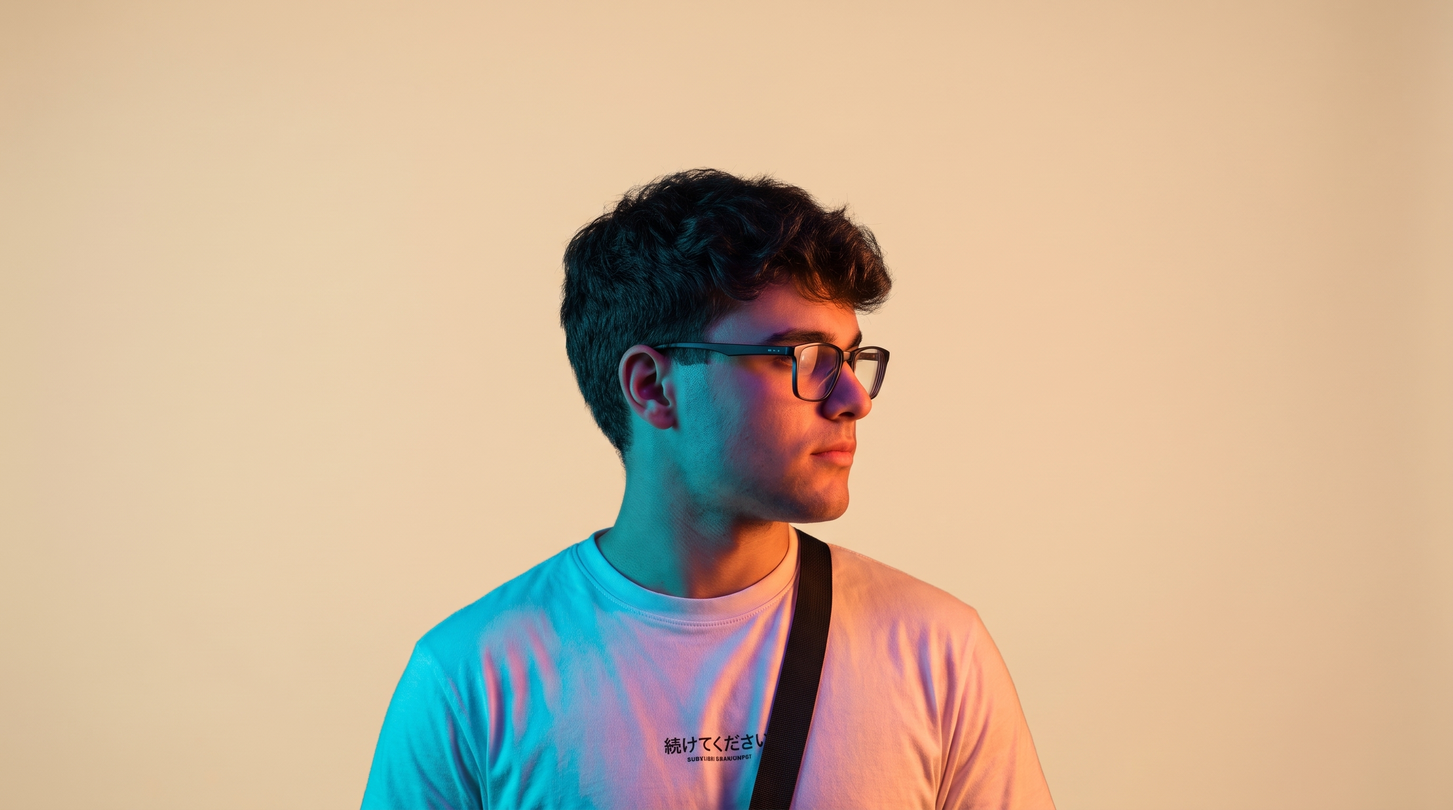
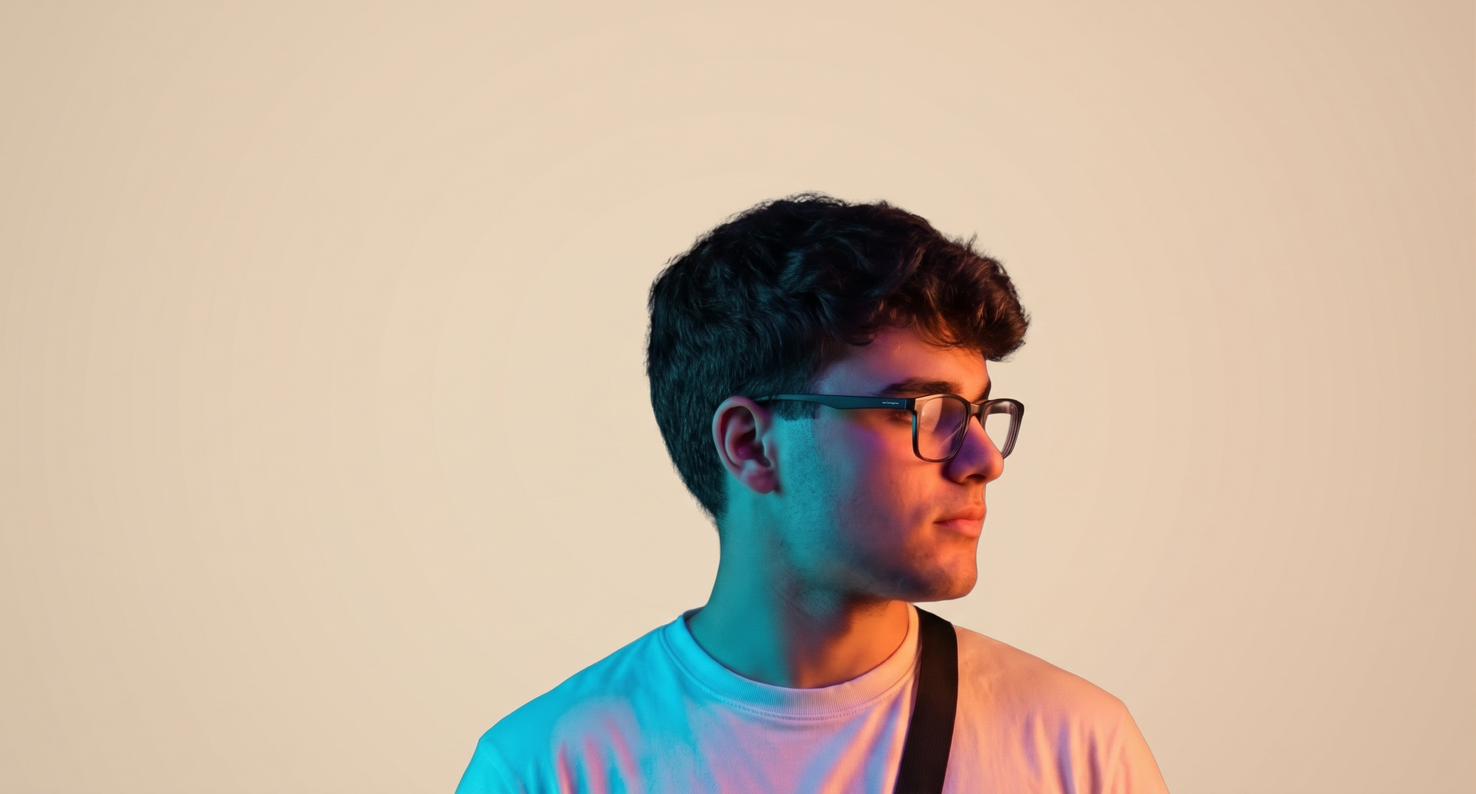
feat(home): rediseña la portada y sus secciones

diff --git a/src/styles/global.css b/src/styles/global.css
@@ -1,9 +1,34 @@
 @import "tailwindcss/theme.css" layer(theme);
 @import "tailwindcss/utilities.css" layer(utilities);
 
+/* Scrollbar personalizado sin flechas */
+::-webkit-scrollbar {
+    width: 6px;
+    height: 6px;
+}
+
+::-webkit-scrollbar-track {
+    background: transparent;
+}
+
+::-webkit-scrollbar-thumb {
+    background-color: #fde68a;
+    border-radius: 9999px;
+}
+
+.dark ::-webkit-scrollbar-thumb {
+    background-color: #18181b;
+}
+
+::-webkit-scrollbar-button {
+    display: none;
+    width: 0;
+    height: 0;
+}
+
 @layer base {
     html {
-        @apply bg-amber-50 font-sans dark:bg-zinc-950 dark:text-white selection:bg-orange-500 selection:text-white [scrollbar-color:#fde68a_transparent] dark:[scrollbar-color:#18181b_transparent];
+        @apply bg-amber-50 font-sans dark:bg-zinc-950 dark:text-white selection:bg-orange-500 selection:text-white;
     }
 
     body {
